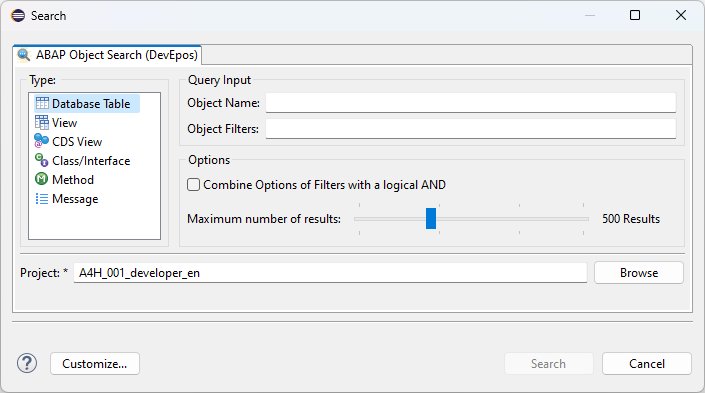
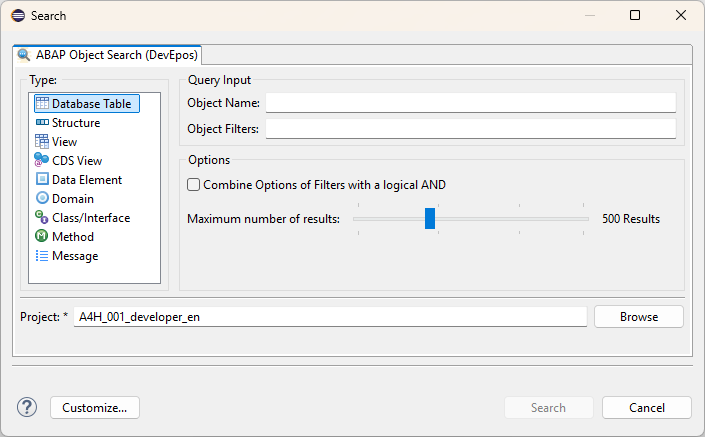
feat: update object search dialog and available types

diff --git a/src/projects/adt-plugins/abap-search-and-analysis-tools/features.md b/src/projects/adt-plugins/abap-search-and-analysis-tools/features.md
@@ -11,8 +11,11 @@ order: 2
 It currently supports the following object types:
 
 - Database Table
+- Structure
 - View
 - CDS View
+- Data Element
+- Domain
 - Class / Interface
 - Method
 - Message
